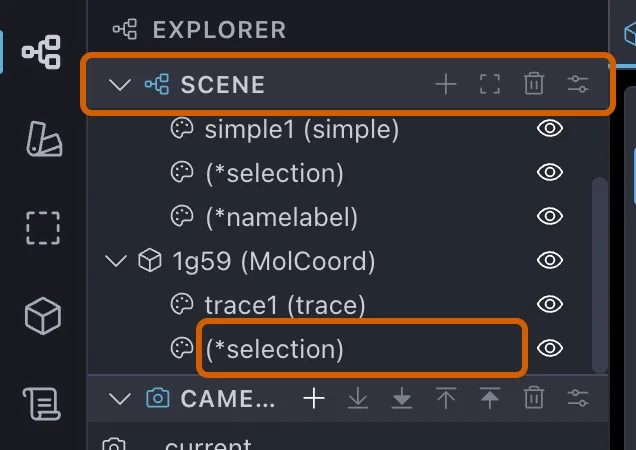
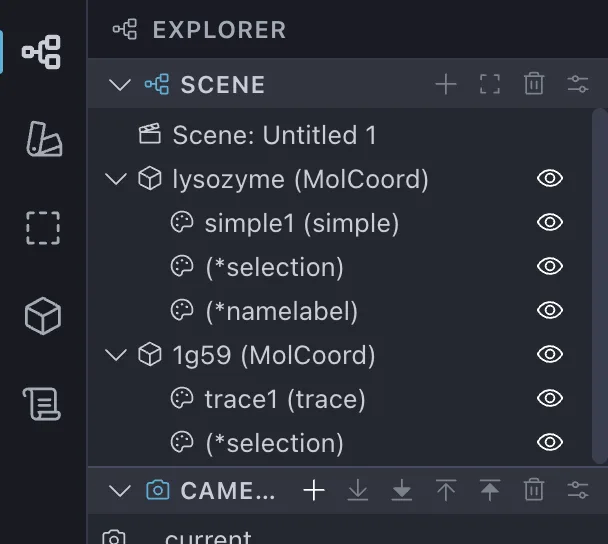
Show the whole scene tree in its figure and frame only what the steps point at
- 5-scene-tree: collapse the panes below Scene for the shot, no frame,
  and move the figure next to the row list it illustrates
- The Camera panel is below the tree, not a row in it
- 4-render-controls frames the Target, 4-render-settings the panel title
- AlphaFold page: the Selection panel applies on Enter (icon button)

diff --git a/docs-verify/specs/basic/loading.spec.ts b/docs-verify/specs/basic/loading.spec.ts
@@ -16,7 +16,7 @@ import { test, expect } from '@playwright/test';
 import { CueMolHarness } from '../../fixtures/app';
 import { setupLoadingPage, LYSOZYME, SECOND_OBJ } from '../../fixtures/course';
 import { assertDialogQueuesEmpty } from '../../helpers/dialogs';
-import { expectRow, sceneRow, sceneToolbarButtons } from '../../helpers/sceneTree';
+import { collapseOtherPanes, expectRow, sceneRow, sceneToolbarButtons } from '../../helpers/sceneTree';
 import { enterViewValue, setViewValue, viewPaneRowParts } from '../../helpers/viewPane';
 import { clickAtomNearCenter, rotateView, zoomView } from '../../helpers/molView';
 import { docShot, sidebarRect } from '../../helpers/docShot';
@@ -166,20 +166,22 @@ test.describe.serial('構造の読み込みと表示', { tag: '@net' }, () => {
         }
         // 「名前のない Renderer は括弧と型だけが表示されます」
         await expect(harness.window.getByText('(*selection)').first()).toBeVisible();
-        // 「いちばん下の Camera は、保存した視点の置き場所です」(Styles left the
-        //   tree for the Styles view in 3.0.2.560)
+        // 「シーンツリーの下の Camera パネルは、保存した視点の置き場所です」(Styles
+        //   left the tree for the Styles view in 3.0.2.560)
         await expect(harness.window.getByText('Camera', { exact: true })).toBeVisible();
         // 「パネル上部には 4 つのボタンがあります」(Add / Focus / Delete / Property)
         await expect(sceneToolbarButtons(harness.window)).toHaveCount(4);
 
         // Header (it carries the Delete button the section mentions) down to
         // the last renderer row; Camera / Styles are not part of this section.
+        // The whole tree, from the scene row down: at the shot window size
+        // the Scene pane is short, so the panes below it are collapsed for
+        // the picture and opened again afterwards. No frame: the figure is
+        // the tree itself.
+        const collapsed = await collapseOtherPanes(harness.window);
         await docShot(harness.window, `${SHOT}/5-scene-tree`, {
             rect: await sidebarRect(harness.window, harness.window.getByText('(*selection)').last(), 40),
-            highlight: [
-                harness.window.locator('.sp-pane').first().locator('.sp-section-header'),
-                harness.window.getByText('(*selection)').last(),
-            ],
         });
+        for (const header of collapsed) await header.click();
     });
 });

diff --git a/docs-verify/specs/quick-tour.spec.ts b/docs-verify/specs/quick-tour.spec.ts
@@ -265,7 +265,8 @@ test.describe.serial('クイックツアー', { tag: '@net' }, () => {
             ];
             await docShot(renderWindow, 'getting-started/quick-tour/4-render-controls', {
                 rect: await aroundBox(renderWindow, renderControls, 120),
-                highlight: renderControls,
+                // Step 1 is about the Target; Start Render comes in step 3.
+                highlight: renderWindow.locator('.render-panel-bar select').last(),
             });
             const renderSettings = [
                 renderWindow.locator('.render-window-settings-header'),
@@ -273,7 +274,9 @@ test.describe.serial('クイックツアー', { tag: '@net' }, () => {
             ];
             await docShot(renderWindow, 'getting-started/quick-tour/4-render-settings', {
                 rect: await aroundBox(renderWindow, renderSettings, 80),
-                highlight: renderSettings,
+                // The step points at the panel; its title marks it without
+                // stretching the crop over the empty lower half.
+                highlight: renderWindow.locator('.render-window-settings-header'),
             });
 
             if (process.env.E2E_SLOW) {

diff --git a/docs-verify/helpers/sceneTree.ts b/docs-verify/helpers/sceneTree.ts
@@ -63,3 +63,23 @@ export async function clickSceneToolbar(window: Page, which: keyof typeof TOOLBA
 export function sceneToolbarButtons(window: Page): Locator {
     return window.locator('.sp-pane').first().locator('.section-action-btn');
 }
+
+/**
+ * Collapse the Explorer panes below Scene (Camera / Color / View) so the
+ * scene tree gets the column's height. Returns the headers it clicked, to
+ * open them again.
+ */
+export async function collapseOtherPanes(window: Page): Promise<Locator[]> {
+    const panes = window.locator('.sp-pane');
+    const n = await panes.count();
+    const clicked: Locator[] = [];
+    for (let i = 1; i < n; i++) {
+        const pane = panes.nth(i);
+        if ((await pane.locator('.sp-pane-fill').count()) === 0) continue;
+        const header = pane.locator('.sp-section-header.collapsible').first();
+        if ((await header.count()) === 0) continue;
+        await header.click();
+        clicked.push(header);
+    }
+    return clicked;
+}

diff --git a/docs-verify/helpers/colorPane.ts b/docs-verify/helpers/colorPane.ts
@@ -32,3 +32,15 @@ export async function chooseColoring(
     await coloringButton(window).click();
     await expect(coloringButton(window)).toBeEnabled();
 }
+
+/**
+ * Select a renderer of one object: options are grouped per object
+ * (`<optgroup label=objName>`), and two objects can both have "cartoon1".
+ */
+export async function selectColorTargetOf(window: Page, objName: string, optionLabel: string): Promise<void> {
+    const select = window.locator('.color-enum-select select, select.color-enum-select').first();
+    const value = await select.locator(`optgroup[label="${objName}"] option`)
+        .filter({ hasText: optionLabel }).first().getAttribute('value');
+    if (value === null) throw new Error(`no "${optionLabel}" under ${objName} in the Color pane`);
+    await select.selectOption(value);
+}

diff --git a/docs-verify/helpers/sidebar.ts b/docs-verify/helpers/sidebar.ts
@@ -1,0 +1,14 @@
+import type { Page } from '@playwright/test';
+
+/**
+ * Activity bar views. The items carry no accessible name (a tooltip only),
+ * so they are addressed by position in the built-in order
+ * (ActivityBar.tsx BUILTIN_ACTIVITY_ITEMS).
+ */
+const VIEW_INDEX = { explorer: 0, styles: 1, selection: 2, crystal: 3, actions: 4 } as const;
+
+export async function openSidebarView(window: Page, view: keyof typeof VIEW_INDEX): Promise<void> {
+    const item = window.locator('.activity-bar-top .activity-bar-item').nth(VIEW_INDEX[view]);
+    const cls = (await item.getAttribute('class')) ?? '';
+    if (!/\bactive\b/.test(cls)) await item.click();
+}

diff --git a/docs/en/tutorials/basic/loading.md b/docs/en/tutorials/basic/loading.md
@@ -213,6 +213,8 @@ the list of Renderers attached to that Object. The current tree reads as follows
 - `(*namelabel)` — The Renderer for labels, created when an atom was clicked to show its name in §2.
   The row remains even after the label is hidden.
 
+![Scene tree (lysozyme / 1g59 and their Renderers)](../../../assets/images/tutorials/basic/loading/5-scene-tree.webp){ width="304" .on-glb }
+
 **Camera** and **Styles** at the bottom are the places where saved views and styles are kept
 (→ [Saving the camera and the scene](camera-scene.md)).
 
@@ -230,8 +232,6 @@ the list of Renderers attached to that Object. The current tree reads as follows
 | **Property** | Shows the selected item in the property inspector. |
 
 Right-clicking the scene row lets you change the background color from **Background color**.
-
-![Scene tree (lysozyme / 1g59 and their Renderers)](../../../assets/images/tutorials/basic/loading/5-scene-tree.webp){ width="318" .on-glb }
 
 ## Next steps
 
